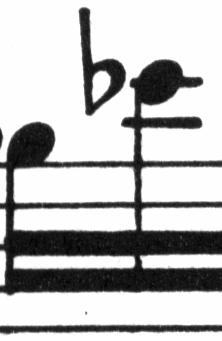
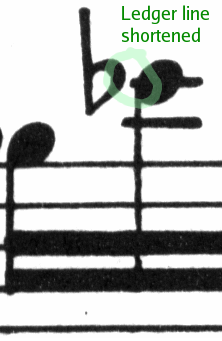
* site/switch/advantages.html: typos.
* site/images/baer-ledger.png: add comment

Changed region(s): [[0.4595, 0.0, 0.9459, 0.3226]]

diff --git a/site/switch/advantages.html b/site/switch/advantages.html
@@ -53,19 +53,17 @@
   <dt>Finest classical engraving available</dt>
   <dd>
     <img src="@IMAGES@flat-design.png" align="right" alt="flat-design">
-    <br>
-    All style settings, font designs and algorithms have been inspired by
-    the finest hand-engraved music.  LilyPond output has that same strong
-    and balanced look as a classical scores.
-    (<a href="../about/automated-engraving/typography-features.html">more</a>)
-  </dd>
+
+    All style settings, font designs and algorithms have been inspired
+    by the finest hand-engraved music.  LilyPond output has that same
+    strong and balanced look as a classical score.  (<a
+    href="../about/automated-engraving/typography-features.html">Read more</a>)
+    </dd>
 
   <dt>Libre software</dt>
   <dd>
-    <p>
       How much it costs?  Nada, zilch, nothing!  Yep - It's free.  Get
       it from the <a href="../download">download page</a>.
-    </p>
     <p>
       Moreover it's also free (as in "speech") software.  It comes with
       source code, and permission to change and copy it.  So, are you
